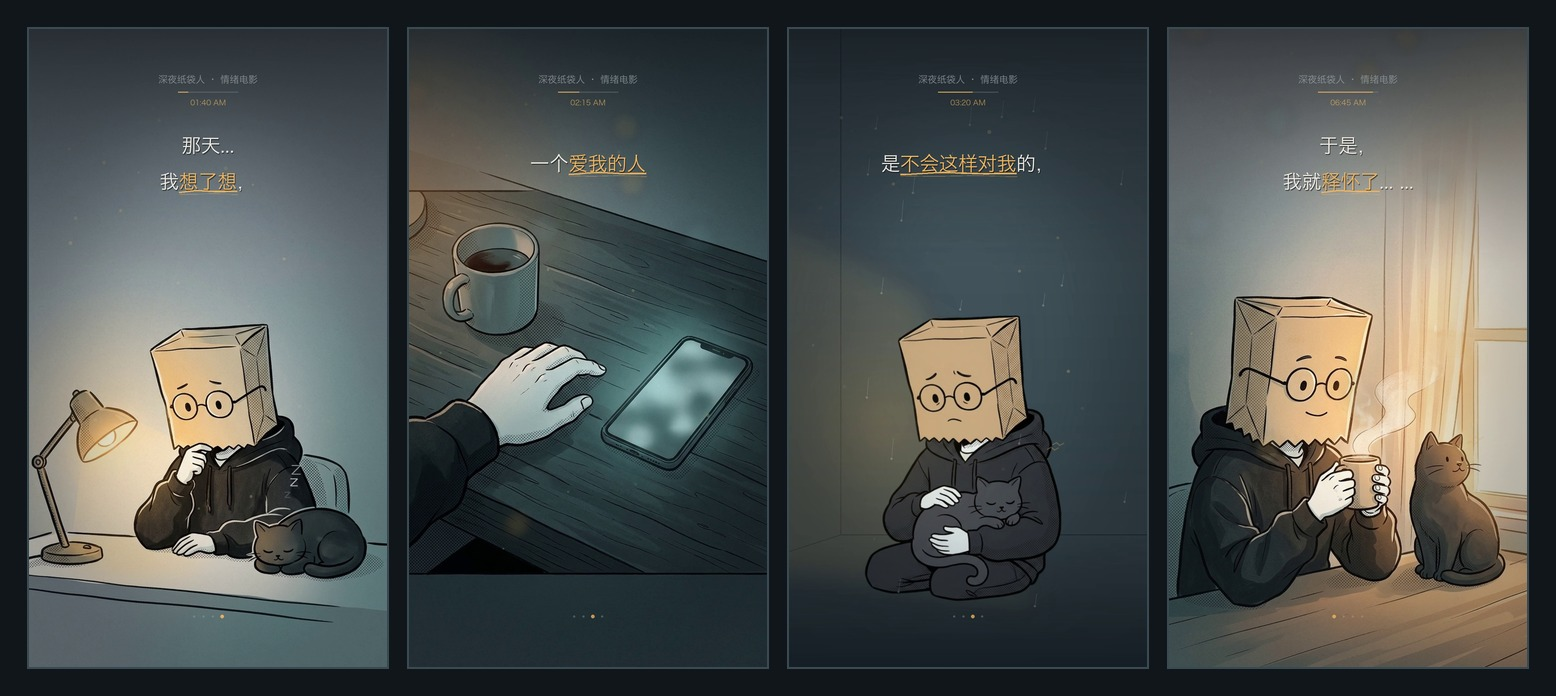
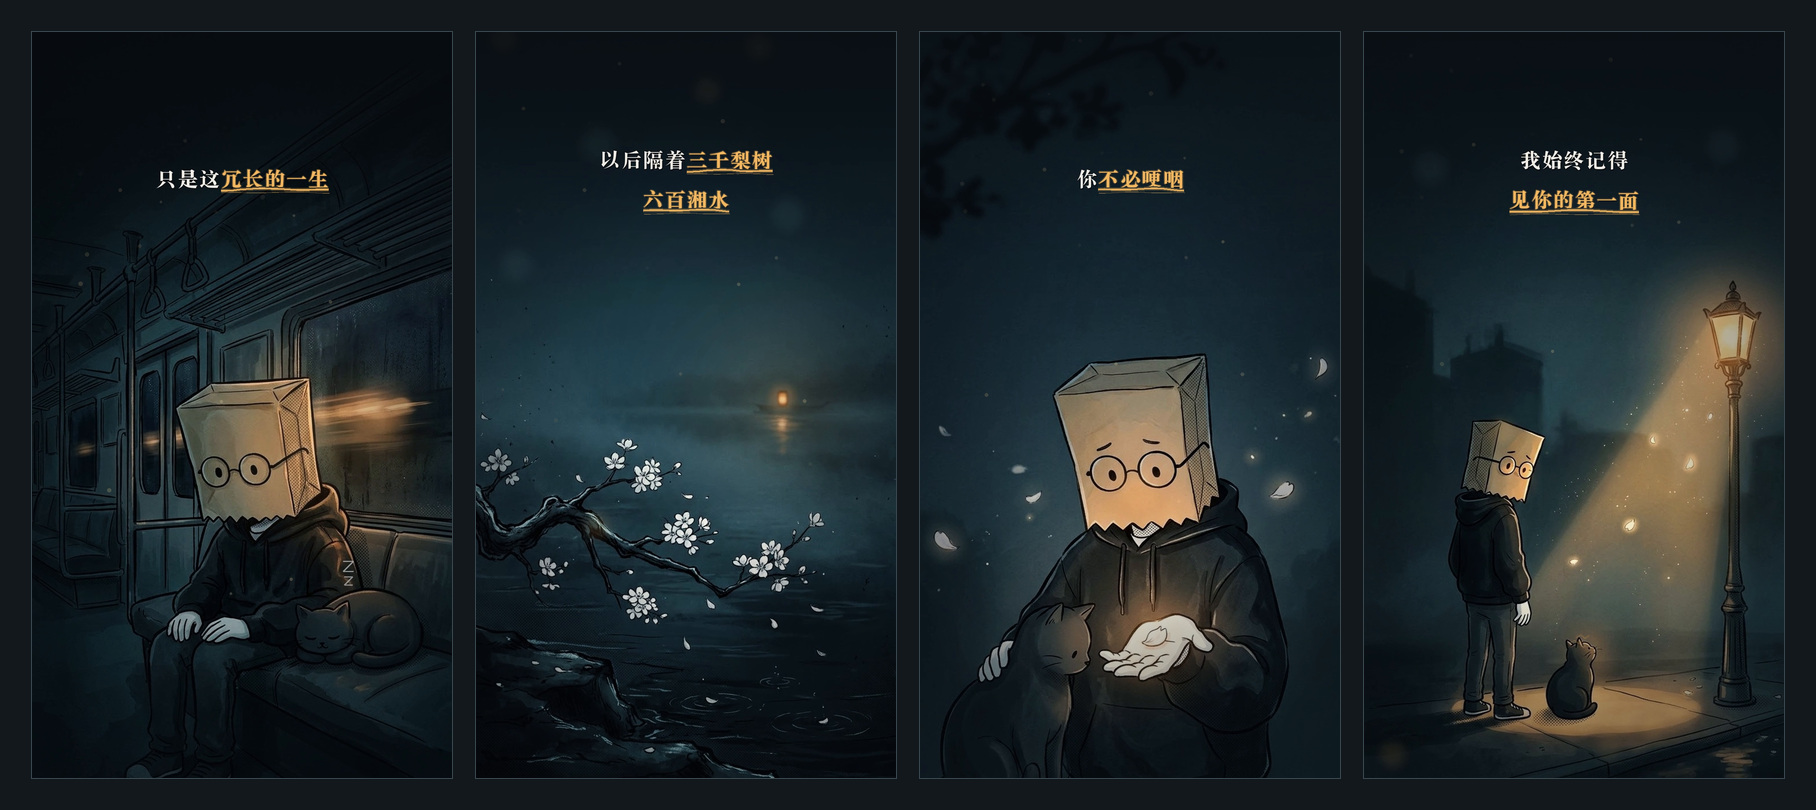
docs(readme): replace built-in showcase images with Banana 2.5 cinema_emo works and clarify image + video capabilities

diff --git a/README.md b/README.md
@@ -1,7 +1,7 @@
 # Paperbag Emo (`paperbag-emo`)
 
-> **深夜纸袋人 & 慵懒黑猫（Paperbag & Black Cat）** —— 统一炭笔墨线与半调网点风格的 AI Agent 视觉与短视频创作 Skill。  
-> Strictly local rendering (`Python + Pillow + FFmpeg`), zero external video/image API keys required, licensed under **MIT**.
+> **深夜纸袋人 & 慵懒黑猫（Paperbag & Black Cat）** —— 统一炭笔墨线、圆形半调网点与深夜电影感配色的 **AI Agent 个人 IP 图片与短视频创作 Skill**。  
+> 从**一图流科普/情绪解释图**、**无白边透明插画素材**到 **9:16 漫画电影感 BPM 卡点短视频**，全流程本地可复现（`Python + Pillow + FFmpeg`），零外部付费视频 API 依赖，采用 **MIT** 协议开源。
 
 [![License: MIT](https://img.shields.io/badge/License-MIT-amber.svg)](LICENSE)
 ![Python 3.10+](https://img.shields.io/badge/Python-3.10%2B-3776AB)
@@ -9,55 +9,75 @@
 
 ---
 
-## 视觉效果一览（What This Skill Produces）
+## 这个项目可以干什么？（图片 + 视频全链路创作）
 
-### 1. IP 角色基准设定（Character Anchor）
+`paperbag-emo` 围绕同一套 IP 视觉语言，严格划分为**图片创作（Mode A / Mode B）**与**视频创作（Mode C）**三大生产模式：
 
-所有产物均锁定 [assets/master_ref.jpg](assets/master_ref.jpg) 的炭笔墨线、变粗细轮廓、圆形半调网点（Halftone）及克制的**暖琥珀（Warm Amber）+ 冷暗青（Muted Slate-Teal）**双强调色规范：
+### 1. 图片创作：做解释图 & 可复用透明素材
+
+- **Mode A — 概念 / 机制 / 情绪一图流解释图（Explanatory Image）**
+  - **适用场景**：公众号文章配图、小红书干货/情绪图文、产品机制拆解、双态对比图。
+  - **核心能力**：先产出 8 字段结构化 `Visual Brief`，再以 `Text (verbatim)` 逐字锁定中英文标签直接成图；通过真实物件、光影对比与清晰路径（1 个核心动作、至多 3 个视觉区块），让读者在 **10 秒内看懂一个概念或情绪转折**。支持标签错字单点纠错重试。
+- **Mode B — 无白边可复用透明插画资产（Transparent RGBA PNG）**
+  - **适用场景**：PPT 演讲插图、视频前景贴纸、文章装饰元素、封面与海报排版。
+  - **核心能力**：支持单独绘制**纸袋人**、**慵懒黑猫**、**二者组合**或**纯炭笔墨线独立物件**（台灯、咖啡杯、笔记本、雨伞、时钟等）。配合内置抠图脚本 [scripts/cutout.py](scripts/cutout.py) 去绿幕（`#00FF00` / `#FF00FF`）与去色溢处理，专门保护暖棕牛皮纸袋与炭黑卫衣不透光（`--non-key-opaque-threshold 115`），且**不加白色贴纸描边**，在深暗青夜幕和米白手账底色上都能干净融合。
+
+### 2. 视频创作：做 9:16 漫画电影感卡点短视频
+
+- **Mode C — 9:16 漫画电影感 BPM 卡点视频（`cinema_emo` Motion Comic）**
+  - **适用场景**：抖音 / 视频号 / 小红书竖屏深夜 emo 独白、金句短片、情绪故事、节奏化口播/字幕短剧。
+  - **核心能力**：输入一段文案，Agent 自动完成**「一文案一分镜」导演拆解**与本地视频合成：
+    - **双生图协作路径**：支持 **Path A 外置生图协作**（一键生成适配 Gemini Nano Banana 2.5 / Midjourney / 即梦的中英文 `Prompt Pack`，收回母图后由脚本自动裁切 B 机位特写并接入眨眼帧），也支持 **Path B 本地透明贴纸直出**。
+    - **文案驱动节奏与景别轮换**：按文案字数动态决定镜头数与总时长（短句 `10–15s` / 中段独白 `16–28s` / 长叙事 `30–55s`），强制相邻两幕景别轮换（远景确立 → 物件空镜 → 中近景动作 → B 机位极近景特写 → 回眸/光影收尾），并支持中文标点智能断句与 `--validate` 可读性校验。
+    - **电影感视听渲染（[scripts/render_emo_video.py](scripts/render_emo_video.py)）**：纯本地 `Python + Pillow + FFmpeg` 渲染 `1080×1920` 竖屏成片，集成 80/20 强明暗 `35mm midnight_emo` 调色、零 HUD 纯净电影画幅（`hud: "none"`）、舞台与字幕解耦转场、逐字入场动效、关键词暖琥珀光晕与手绘笔刷下划线、人/猫自然眨眼（`natural_blink`）、2.5D 视差、自动暖光源定位（`light_pos: "auto"`）及雨丝/景深散景/热气/黑猫 `z Z z` 呼噜波纹/路灯闪烁等微动态，导出抖音无声成片（`_silent.mp4`）与本地节拍预览版（`_beat_preview.mp4`）。
+
+---
+
+## 视频成片效果一览（Mode C · External Banana 2.5 + 本地合成）
+
+> 以下分镜静帧均由 **外置生图模型（Gemini Nano Banana 2.5）生成母图** 后，经本项目 [scripts/render_emo_video.py](scripts/render_emo_video.py) 在本地完成 35mm 电影调色、微动态叠加、关键词手绘下划线与衬线字幕排版合成（零 HUD 纯净电影画幅）。
+
+### 1. 《三千梨树六百湘水》（4 景别分镜节选 · 74 BPM · 22.30s）
+
+对应配置：[studio/sanqian_timeline.json](studio/sanqian_timeline.json) | 提示词包：[studio/sanqian_prompt_pack.md](studio/sanqian_prompt_pack.md)
+
+![Mode C Motion Comic Storyboard - Sanqian](examples/mode_c_motion_comic_strip.jpg)
+
+- **远景确立**（末班车厢 + 黑猫 `cat_zzz`） → **诗意空镜**（梨花与湘水孤灯 + `luma_fade` 转场） → **中近景情绪**（掌心花瓣微光 `prop_pulse` + 自然眨眼） → **街灯回眸收尾**（`warm_dissolve` + 路灯闪烁与散景）。
+
+### 2. 《克制与想念》&《产生怜惜》（跨文案 80/20 光影与天气微动态）
+
+对应配置：[studio/xiangni_timeline.json](studio/xiangni_timeline.json) / [studio/lianxi_timeline.json](studio/lianxi_timeline.json)
+
+![Mode C Cinema Works - Xiangni and Lianxi](examples/mode_c_cinema_works.jpg)
+
+- 涵盖手机冷暖光脉冲、雨窗玻璃雨丝特写（`rain_glass`）、路灯耳机长椅、雨夜伞下递热饮（`coffee_steam` + `lamp_flicker`）等定制分镜；支持通过 `crop_box` 从单张母图自动推近裁切出 B 机位情绪极近景，减少重绘成本同时保持角色一致。
+
+---
+
+## IP 角色与视觉规范（Character Anchor）
+
+所有图片与视频分镜均锁定统一视觉语言，使用外置生图模型时建议将 [assets/master_ref.jpg](assets/master_ref.jpg) 作为角色特征参考图上传：
+
+- **主角（Paperbag）**：折叠牛皮纸袋头套（底部锯齿边缘）、细黑圆框眼镜、小黑点眉眼、宽大炭黑连帽卫衣、白色漫画手。
+- **搭档（Black Cat）**：圆润炭黑短毛猫、小尖耳、极简胡须与克制神态（可按文案需求单独出现、双角色同框，或在纯空镜中隐去）。
+- **色彩与线稿纪律**：炭笔黑变粗细轮廓 + 圆形半调网点阴影；全片严格克制为**暖琥珀（Warm Amber）+ 冷暗青（Muted Slate-Teal）**双强调色。
 
 <p align="center">
-  <img src="assets/master_ref.jpg" alt="Paperbag and Black Cat Master Reference" width="320" />
+  <img src="assets/master_ref.jpg" alt="Paperbag and Black Cat Character Anchor" width="280" />
 </p>
 
----
-
-### 2. Mode C — 9:16 漫画电影感 BPM 卡点视频（Motion Comic）
-
-围绕文案语义生成定制多景别 9:16 分镜（远景确立、手部/物件空镜、近景情绪、晨光收尾），结合 **2.5D 前景视差**、**自然眨眼序列（人/猫同步眨眼）**、**黑猫睡眠 `z Z z` / 呼噜波纹 / 手机微光脉冲**、**柔和热气与晨光束**，输出抖音无声版（`_silent.mp4`）与节拍预览版（`_beat_preview.mp4`）：
-
-![Mode C Motion Comic 4-Panel Storyboard](examples/mode_c_motion_comic_strip.jpg)
-
-支持 **`late_night`（深夜暗青）** 与 **`paper_cream`（手账米白）** 双主题及自定义 `--bg` 背景图：
-
-![Theme Comparison: late_night vs paper_cream](examples/mode_c_themes_compare.jpg)
+> 提示：若你希望使用新的 Banana 2.5 版本补齐 **Mode A（概念/情绪解释图）**、**Mode B（透明贴纸资产）** 或重绘新版角色基准图，可直接使用已准备好的 [studio/readme_assets_prompt_pack.md](studio/readme_assets_prompt_pack.md)。
 
 ---
 
-### 3. Mode A — 概念 / 机制 / 情绪一图流解释图
+## 三模式能力总览
 
-用真实物件、光影对比与精确中文标签直接成图，10 秒内讲清一个概念、流程或情绪对比：
-
-![Mode A Explanatory Illustration Example](examples/asc-multimodal-explainer.jpg)
-
----
-
-### 4. Mode B — 无白边可复用透明插画资产（RGBA）
-
-通过绿幕/透明通道与 [scripts/cutout.py](scripts/cutout.py) 去色溢抠图（保护暖棕牛皮纸袋与炭黑卫衣不透光），在深浅两种底色上均能干净融合、无白色贴纸描边：
-
-![Mode B Transparent Stickers over Dark and Light Backgrounds](examples/mode_b_stickers_showcase.jpg)
-
----
-
-## 核心特性（Key Capabilities）
-
-- **三模式严格分工**：
-  - **Mode A**：单张完整概念/情绪解释图（带 `Text (verbatim)` 逐字标签防错与单点纠错重试）
-  - **Mode B**：透明 PNG 动作/物件资产（`cutout.py` 含 `--non-key-opaque-threshold 115` 内部保护）
-  - **Mode C**：BPM 节拍卡点 9:16 视频合成引擎（`render_emo_video.py`）
-- **「一文案一分镜」导演标准**：按文案字数动态决定总时长与分镜数，强制相邻两幕景别轮换，支持长文案中文标点智能断句与 `--validate` 节奏可读性校验。
-- **丰富的感官微动态与伴侣交互**：支持 `natural_blink` 眨眼序列、`fg_parallax` 2.5D 前景视差、`coffee_steam`、`sunbeams`、`bokeh_depth`、`rain_glass`、`lamp_flicker`、`cat_zzz`、`purr_waves`、`prop_pulse` 与 `film_grain`。
-- **跨平台零外部付费依赖**：自动探测 macOS / Windows / Linux 中文字体，自带 `ffmpeg` 环境自检与无声/节拍双轨 MP4 导出。
+| 模式 | 产出类型 | 核心用途 | 输入 | 输出产物 | 核心脚本 / 规范 |
+| :--- | :--- | :--- | :--- | :--- | :--- |
+| **Mode A** | 图片（完整解释图） | 概念科普、机制对比、情绪一图流 | 主题 / 观点 + 2–6 个标签 | 完整 PNG / WebP / JPG 插画 | [SKILL.md](SKILL.md)（Visual Brief + `Text (verbatim)`） |
+| **Mode B** | 图片（透明资产） | PPT、排版插图、封面、视频前景 | 动作 / 物件描述（绿幕或透明底） | 无白边 RGBA 透明 PNG | [scripts/cutout.py](scripts/cutout.py) |
+| **Mode C** | 视频（9:16 竖屏） | 抖音/小红书/视频号卡点情绪短片 | 文案脚本 + `timeline.json`（+ 外置/内置画格） | `_silent.mp4` + `_beat_preview.mp4` | [scripts/render_emo_video.py](scripts/render_emo_video.py) |
 
 ---
 
@@ -71,7 +91,6 @@
 ### 2. 作为 Agent Skill 安装
 
 ```bash
-# 使用 skills CLI（仓库公开后或已配置权限时）
 npx skills add a916791360/paperbag-emo
 ```
 
@@ -80,21 +99,23 @@ npx skills add a916791360/paperbag-emo
 ### 3. Mode C 视频引擎命令行用法
 
 ```bash
-# 1) 检查 FFmpeg 与跨平台中文字体探测
+# 1) 检查 FFmpeg 与跨平台中文字体探测（macOS / Windows / Linux）
 python3 scripts/render_emo_video.py --check
 
-# 2) 渲染前校验分镜字数断句与拍数节奏
-python3 scripts/render_emo_video.py --validate --timeline studio/shihuai_route3_timeline.json
+# 2) 渲染前校验分镜字数断句、高亮词、景别多样性与拍数节奏
+python3 scripts/render_emo_video.py --validate --timeline studio/sanqian_timeline.json
 
-# 3) 渲染 9:16 无声版（传抖音自选配乐）与节拍预览版
+# 3) 渲染 9:16 竖屏无声成片（上传抖音自选配乐）与节拍预览版
 python3 scripts/render_emo_video.py \
-  --timeline studio/shihuai_route3_timeline.json \
-  --out studio/output/shihuai_route3 \
+  --timeline studio/sanqian_timeline.json \
+  --out studio/output/sanqian_cinema \
   --theme late_night \
   --fps 30
 ```
 
-### 4. Mode B 去绿幕抠图用法
+> 引擎同时支持 `late_night`（深夜暗青）与 `paper_cream`（手账米白）双主题以及 `--bg` 自定义背景图；在 `cinema_emo` 模式下默认采用 `"hud": "none"` 与 `"color_grade": "midnight_emo"`。
+
+### 4. Mode B 去绿幕与去色溢抠图用法
 
 ```bash
 python3 scripts/cutout.py source.jpg assets/stickers/new_pose.png \
@@ -103,22 +124,35 @@ python3 scripts/cutout.py source.jpg assets/stickers/new_pose.png \
   --non-key-opaque-threshold 115
 ```
 
+### 5. 运行单元测试
+
+```bash
+python3 -m unittest discover -s tests -v
+```
+
 ---
 
 ## 仓库目录结构
 
 ```text
-├── SKILL.md                         # Skill 主规范（Mode A / B / C 完整工作流与导演法则）
-├── LICENSE                          # MIT 开源协议
-├── agents/openai.yaml               # 多宿主 Skill 元数据
+├── SKILL.md                           # Skill 主规范（Mode A / B / C 完整工作流与导演法则）
+├── LICENSE                            # MIT 开源协议
+├── agents/openai.yaml                 # 多宿主 Skill 元数据
 ├── assets/
-│   ├── master_ref.jpg               # IP 唯一角色基准图
-│   └── stickers/                    # 已质检透明动作库（thinking / emo_hug / calm_cup）
-├── examples/                        # 三模式成片与视觉效果示例图
+│   ├── master_ref.jpg                 # IP 角色基准参考图
+│   └── stickers/                      # 透明动作库（thinking / emo_hug / emo_hug_blink / calm_cup）
+├── examples/                          # GitHub README 成片与分镜展示图
 ├── scripts/
-│   ├── cutout.py                    # 去绿幕与去色溢抠图脚本
-│   └── render_emo_video.py          # Mode C 9:16 漫画电影与卡点渲染引擎
-└── studio/                          # 示例分镜配置与定制场景画格
+│   ├── cutout.py                      # Mode B 去绿幕与去色溢抠图脚本
+│   └── render_emo_video.py            # Mode C 9:16 漫画电影与卡点渲染引擎
+├── studio/
+│   ├── sanqian_timeline.json          # 示例工程 1：《三千梨树六百湘水》（+ sanqian_prompt_pack.md）
+│   ├── xiangni_timeline.json          # 示例工程 2：《克制与想念》（+ xiangni_prompt_pack.md）
+│   ├── lianxi_timeline.json           # 示例工程 3：《产生怜惜》（+ lianxi_prompt_pack.md）
+│   ├── readme_assets_prompt_pack.md   # Mode A / B / 基准图外置生图提示词包
+│   └── scenes/                        # 分镜母图与眨眼帧目录
+└── tests/
+    └── test_pipeline.py               # 断句、校验、裁切、字幕解耦与抠图单元测试
 ```
 
 ---

diff --git a/studio/readme_assets_prompt_pack.md b/studio/readme_assets_prompt_pack.md
@@ -1,0 +1,70 @@
+# README 介绍配图外置生图提示词包（Mode A 解释图 / Mode B 透明素材 / 可选新版基准图）
+
+> 若你希望把 **Mode A（概念/情绪一图流解释图）**、**Mode B（无白边透明贴纸素材）** 以及 **IP 角色基准图** 也全部替换为 Gemini Nano Banana 2.5 生成的新版本，可直接复制下方提示词生成，生成后保存或发给我，我立即帮你抠图、合成展示拼图并补入 [README.md](../README.md)。
+
+---
+
+## 1. Mode A — 一图流概念/情绪解释图（横版 4:3）
+
+- **目标保存路径**：`examples/mode_a_explainer.jpg`
+- **是否上传 `assets/master_ref.jpg` 参考图**：**是**
+- **构图设计**：左右双态对比，10 秒讲清「信息过载的深夜内耗」vs「一束光聚焦后的冷静输出」。
+
+### 中文提示词（复制即用）
+```text
+参考上传图片中的纸袋人（折叠牛皮纸袋头、锯齿底边、细黑圆框眼镜、小黑点眼睛、炭黑连帽卫衣、白色漫画手）与圆润黑猫设计，绘制一张 4:3 横版社论漫画墨线风格的一图流对比解释图，采用带轻微纸张肌理的米白手账纸底色（不要纯白死板底）。
+
+画面分为左右两半并列对比，中间由一条干净的手绘虚线竖线隔开：
+- 左侧（冷暗青 Muted Slate-Teal 氛围）：纸袋人坐在凌乱堆满杂乱便签、闪烁手机提示框和未读红点气泡的小桌前，微微低头扶额；上方有一块干净的手绘便签标题「深夜内耗」，桌面杂乱的屏幕/纸堆旁贴着小标签「信息过载」。
+- 右侧（暖琥珀 Warm Amber 氛围）：同一张书桌彻底清空，只剩下一盏暖琥珀色台灯、一杯冒热气的马克杯、一本摊开的笔记本，以及安静蜷在台灯暖光边缘的黑猫；纸袋人平静专注地提笔记录，上方标题「一束光聚焦」，摊开的笔记本上标注「清晰表达」。
+
+画面中除以下 4 个中文无衬线粗体标签外，禁止出现任何其他文字、乱码或水印：
+Text (verbatim): Render these exact labels as part of the bitmap illustration:
+"深夜内耗", "信息过载", "一束光聚焦", "清晰表达".
+Use each phrase exactly once. Do not translate, paraphrase, misspell, repeat, or add any other text. Use modern Chinese sans-serif medium/bold typography, large and readable.
+
+风格锚点：专业社论漫画炭笔墨线插画，外轮廓粗、褶皱细节细，使用克制的圆形半调网点阴影（Halftone）与轻微纸张颗粒感；配色仅限炭黑、牛皮纸棕、米白、半调灰、冷暗青与暖琥珀；严禁 3D 渲染、写实照片、塑料渐变、白色贴纸描边与多余杂乱仪表盘。
+```
+
+---
+
+## 2. Mode B — 无白边透明插画资产母图（1:1 正方形 · `#00FF00` 纯绿幕）
+
+> 生成后用 `python3 scripts/cutout.py source.jpg assets/stickers/<name>.png` 一键去绿幕并合成新版 `examples/mode_b_stickers_showcase.jpg` 与 `examples/mode_c_themes_compare.jpg`。
+
+### 2A. 纸袋人思考 & 黑猫蜷睡（`thinking_b25`）
+- **目标保存路径**：`studio/scenes/mode_b_thinking_green.jpg`
+- **是否上传 `assets/master_ref.jpg` 参考图**：**是**
+
+```text
+参考上传图片中的纸袋人与黑猫造型，绘制一张 1:1 正方形角色插画资产，人物与黑猫完整居中、四周留出充裕空白（任何轮廓、眼镜腿、猫耳、猫尾都不要触碰画布边缘）。
+动作：纸袋人微微侧身低头思考，一只白色漫画手轻托纸袋下缘，圆润的小黑猫安静蜷缩在他身侧。不要任何地面阴影、不要桌子或背景家具。
+风格：专业漫画炭笔墨线插画，外粗内细变线宽、经典圆形半调网点阴影，配色克制为炭黑、牛皮纸棕、白色与半调灰。严禁在角色外围添加白色贴纸描边（No white die-cut sticker border），严禁任何文字或水印。
+背景要求：背景必须是完全均匀平坦的纯绿色 #00FF00 矩形，零渐变、零纹理、零噪点、零投影、零地面线。
+```
+
+### 2B. 纸袋人捧热咖啡 & 黑猫仰望（`calm_cup_b25`）
+- **目标保存路径**：`studio/scenes/mode_b_calm_cup_green.jpg`
+- **是否上传 `assets/master_ref.jpg` 参考图**：**是**
+
+```text
+参考上传图片中的纸袋人与黑猫造型，绘制一张 1:1 正方形角色插画资产，人物与黑猫完整居中、四周留出充裕空白（热气曲线也不要碰到画面顶部边缘）。
+动作：纸袋人盘腿坐姿（或半身坐姿），双手捧着一只淡暖色陶瓷马克杯，杯口飘出一条干净的漫画热气，眼镜后露出温和释然的弯眉微笑；圆润的小黑猫乖巧坐在他身旁仰望热气。不要任何地面投影或房间背景。
+风格：专业漫画炭笔墨线插画，外粗内细变线宽、圆形半调网点阴影，配色克制为炭黑、牛皮纸棕、米白与极淡暖琥珀点缀。严禁添加白色贴纸描边，严禁任何文字或水印。
+背景要求：背景必须是完全均匀平坦的纯绿色 #00FF00 矩形，零渐变、零纹理、零噪点、零投影、零地面线。
+```
+
+---
+
+## 3. （可选）新版 IP 角色基准参考图（9:16 竖屏）
+
+- **目标保存路径**：`assets/master_ref.jpg`
+- **说明**：当前所有外置 Banana 2.5 分镜已成功锚定现有 `assets/master_ref.jpg`；仅当你希望把角色基准参考图本身也升级为 Banana 2.5 绘制版本时再使用此提示词。
+
+```text
+9:16 竖屏专业独立动画角色基准设定图：深夜冷暗青（Muted Slate-Teal）带轻微纸纹的静谧室内书桌场景，画面中下部放置两位核心角色：
+1) 主角 Paperbag：头戴略微折叠的暖棕牛皮纸袋（底部呈自然锯齿剪裁边缘），戴细黑圆框眼镜，眼镜后是极简小黑点眼睛与微弯眉毛，身穿宽大炭黑连帽卫衣，露出一双干净的白色漫画手（一只手轻托纸袋下缘思索，另一只手搭在桌面）；
+2) 搭档 Black Cat：一只圆润憨厚的炭黑短毛小猫，小尖耳与细短胡须，安静蜷睡在主角手边的桌面上；
+左侧放置一盏复古金属台灯，散发柔和克制的暖琥珀色光晕，在冷青夜色中形成温柔的暖冷明暗对比。
+手绘炭笔变线宽墨线、细腻圆形半调网点阴影、轻微水彩墨色质感与胶片颗粒，画面上半部分保持纯净宽阔的冷暗青背景留白。严禁任何文字、署名或水印。
+```
